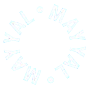
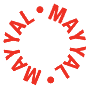
sandwiches in mid

diff --git a/style.css b/style.css
@@ -55,8 +55,8 @@ body, html {
   top: 50%;
   left: 50%;
   transform: translate(-50%, -50%);
-  width: 150px;
-  height: 150px;
+  width: 300px;
+  height: 300px;
   display: flex;
   align-items: center;
   justify-content: center;
@@ -67,9 +67,66 @@ body, html {
   width: 100%;
   height: 100%;
   object-fit: contain;
-  animation: smoothRotate 4s linear infinite;
+  animation: smoothRotate 8s linear infinite;
   transform-origin: center center;
   will-change: transform;
+}
+
+.sandwich-switcher {
+  position: absolute;
+  width: 120px;
+  height: 120px;
+  display: flex;
+  align-items: center;
+  justify-content: center;
+}
+
+.sandwich {
+  position: absolute;
+  width: 100%;
+  height: 100%;
+  object-fit: contain;
+  opacity: 0;
+  transform: scale(0.8);
+  transition: opacity 0.5s ease, transform 0.5s ease;
+}
+
+.sandwich.active {
+  opacity: 1;
+  transform: scale(1);
+}
+
+.sandwich:nth-child(1) { animation: switchSandwich 6s infinite; }
+.sandwich:nth-child(2) { animation: switchSandwich 6s infinite 2s; }
+.sandwich:nth-child(3) { animation: switchSandwich 6s infinite 4s; }
+
+@keyframes switchSandwich {
+  0%, 33% {
+    opacity: 1;
+    transform: scale(1);
+  }
+  34%, 100% {
+    opacity: 0;
+    transform: scale(0.8);
+  }
+}
+
+.hawawshi {
+  top: -40px;
+  left: 50%;
+  transform: translateX(-50%);
+}
+
+.kofta {
+  bottom: -40px;
+  left: 50%;
+  transform: translateX(-50%);
+}
+
+.tawouk {
+  top: 50%;
+  right: -40px;
+  transform: translateY(-50%);
 }
 
 @keyframes smoothRotate {
@@ -141,7 +198,12 @@ body, html {
   }
 
   .spinner-container {
-    width: 120px;
-    height: 120px;
+    width: 250px;
+    height: 250px;
+  }
+
+  .sandwich-switcher {
+    width: 100px;
+    height: 100px;
   }
 }

diff --git a/index.html b/index.html
@@ -21,6 +21,11 @@
     <img src="assets/eighties.png" alt="Eighties" class="sticker eighties" />
     <div class="spinner-container">
       <img src="assets/spinning_mayyal.png" alt="Spinning Mayyal" class="rotary-spinner" />
+      <div class="sandwich-switcher">
+        <img src="assets/hawawshi.png" alt="Hawawshi" class="sandwich active" />
+        <img src="assets/kofta.png" alt="Kofta" class="sandwich" />
+        <img src="assets/tawouk.png" alt="Tawouk" class="sandwich" />
+      </div>
     </div>
 
     <a href="https://www.mayyalmayyal.com/table?franchise=B01&isFranchiseSelected=true" class="order-btn">
